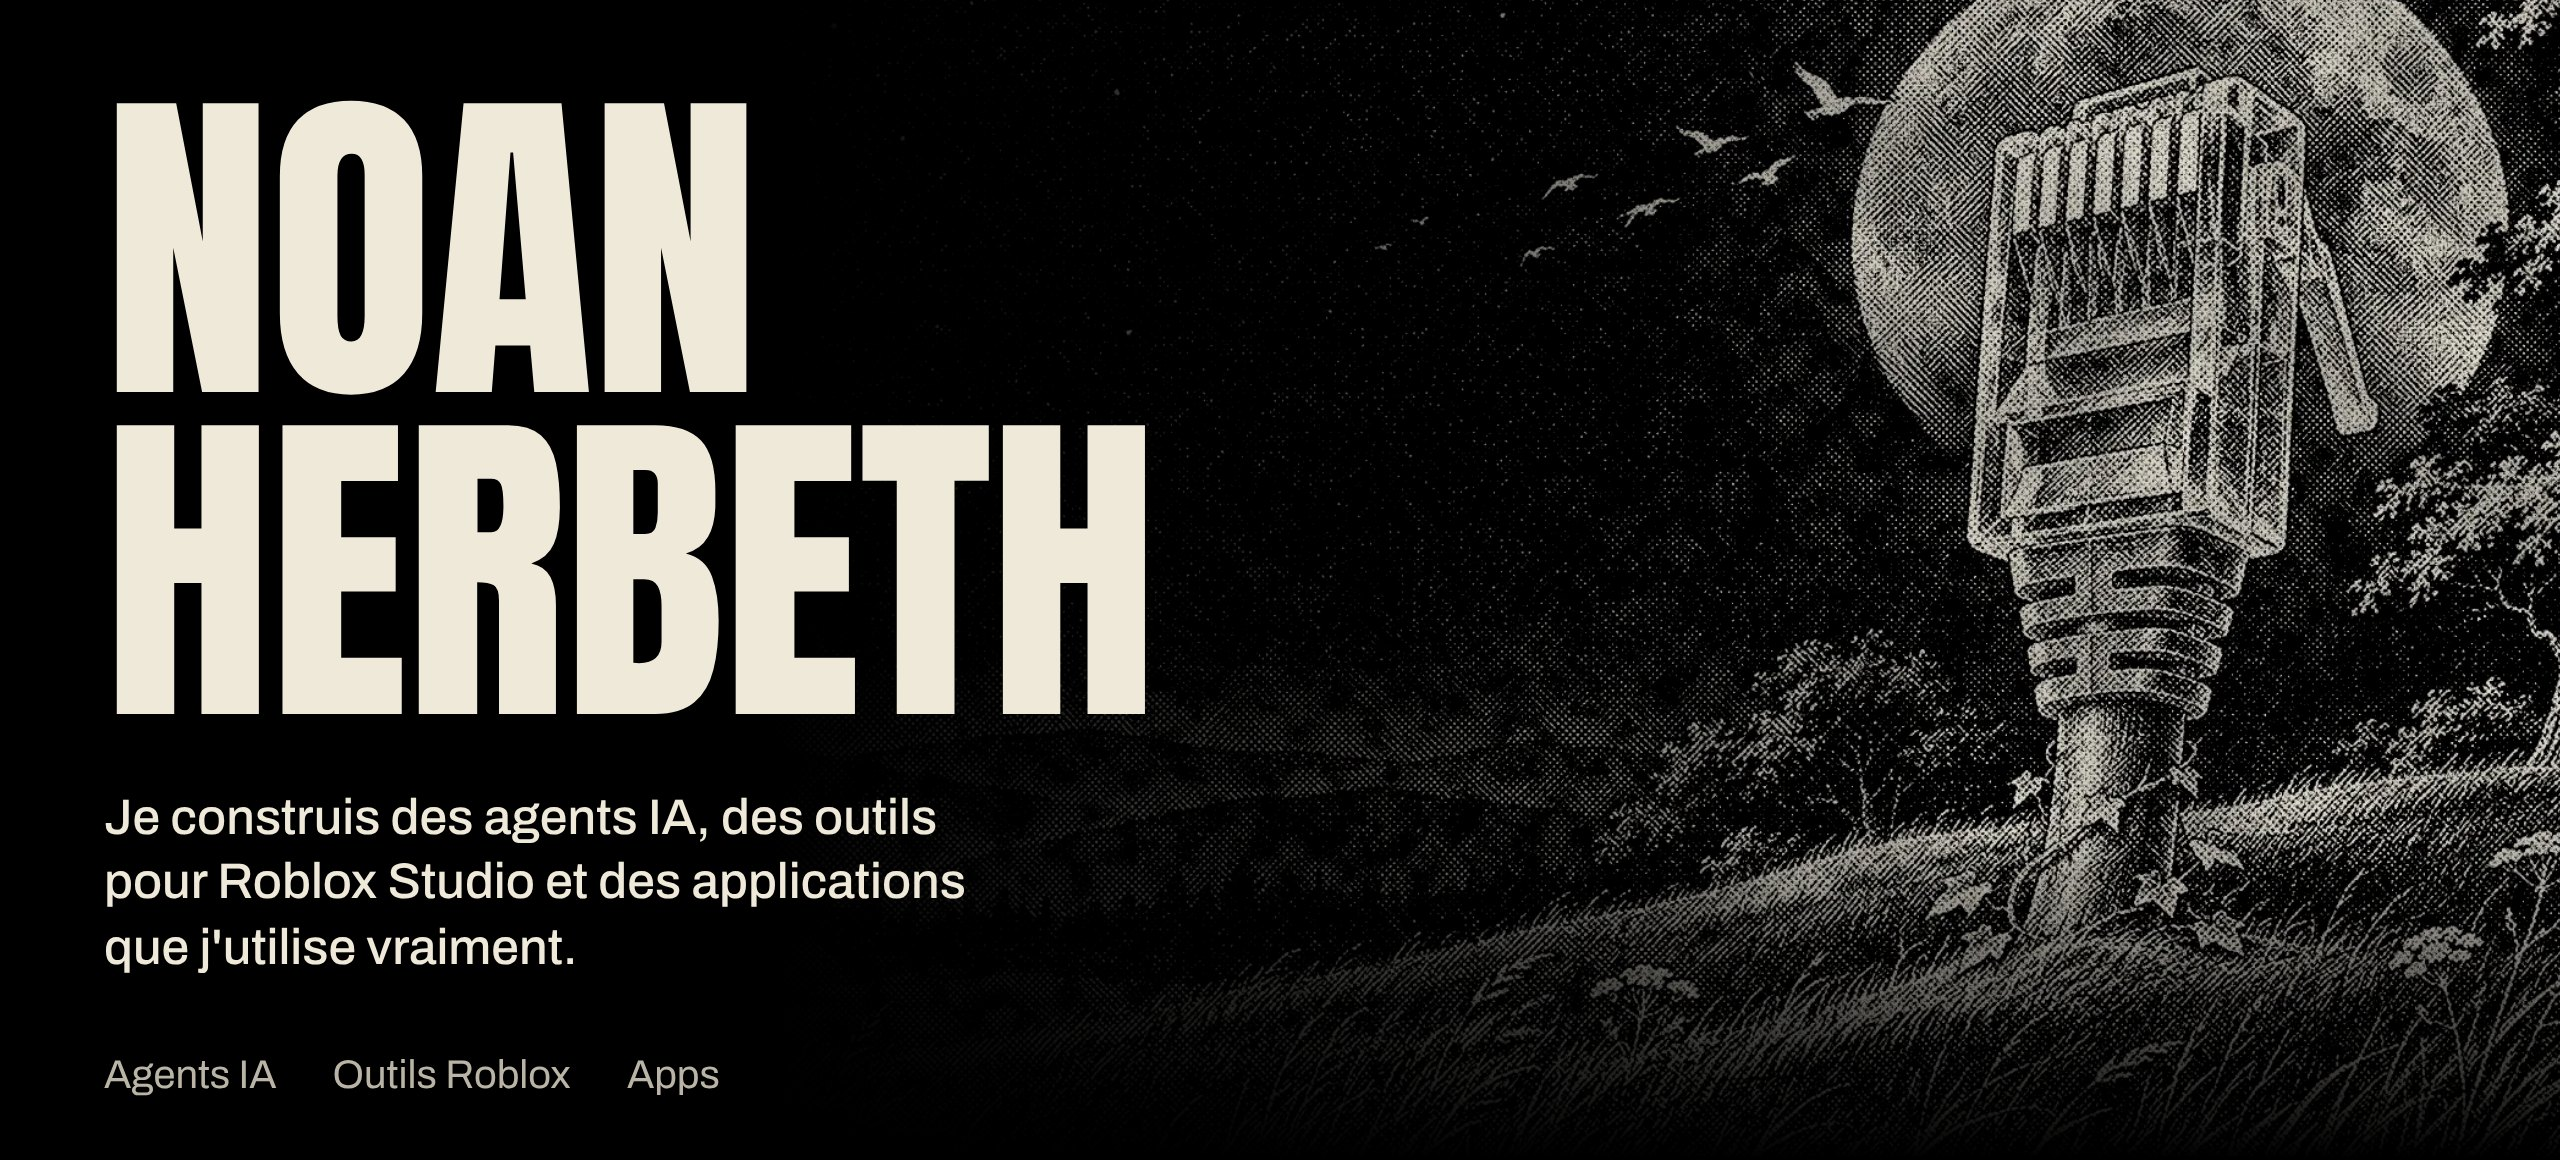
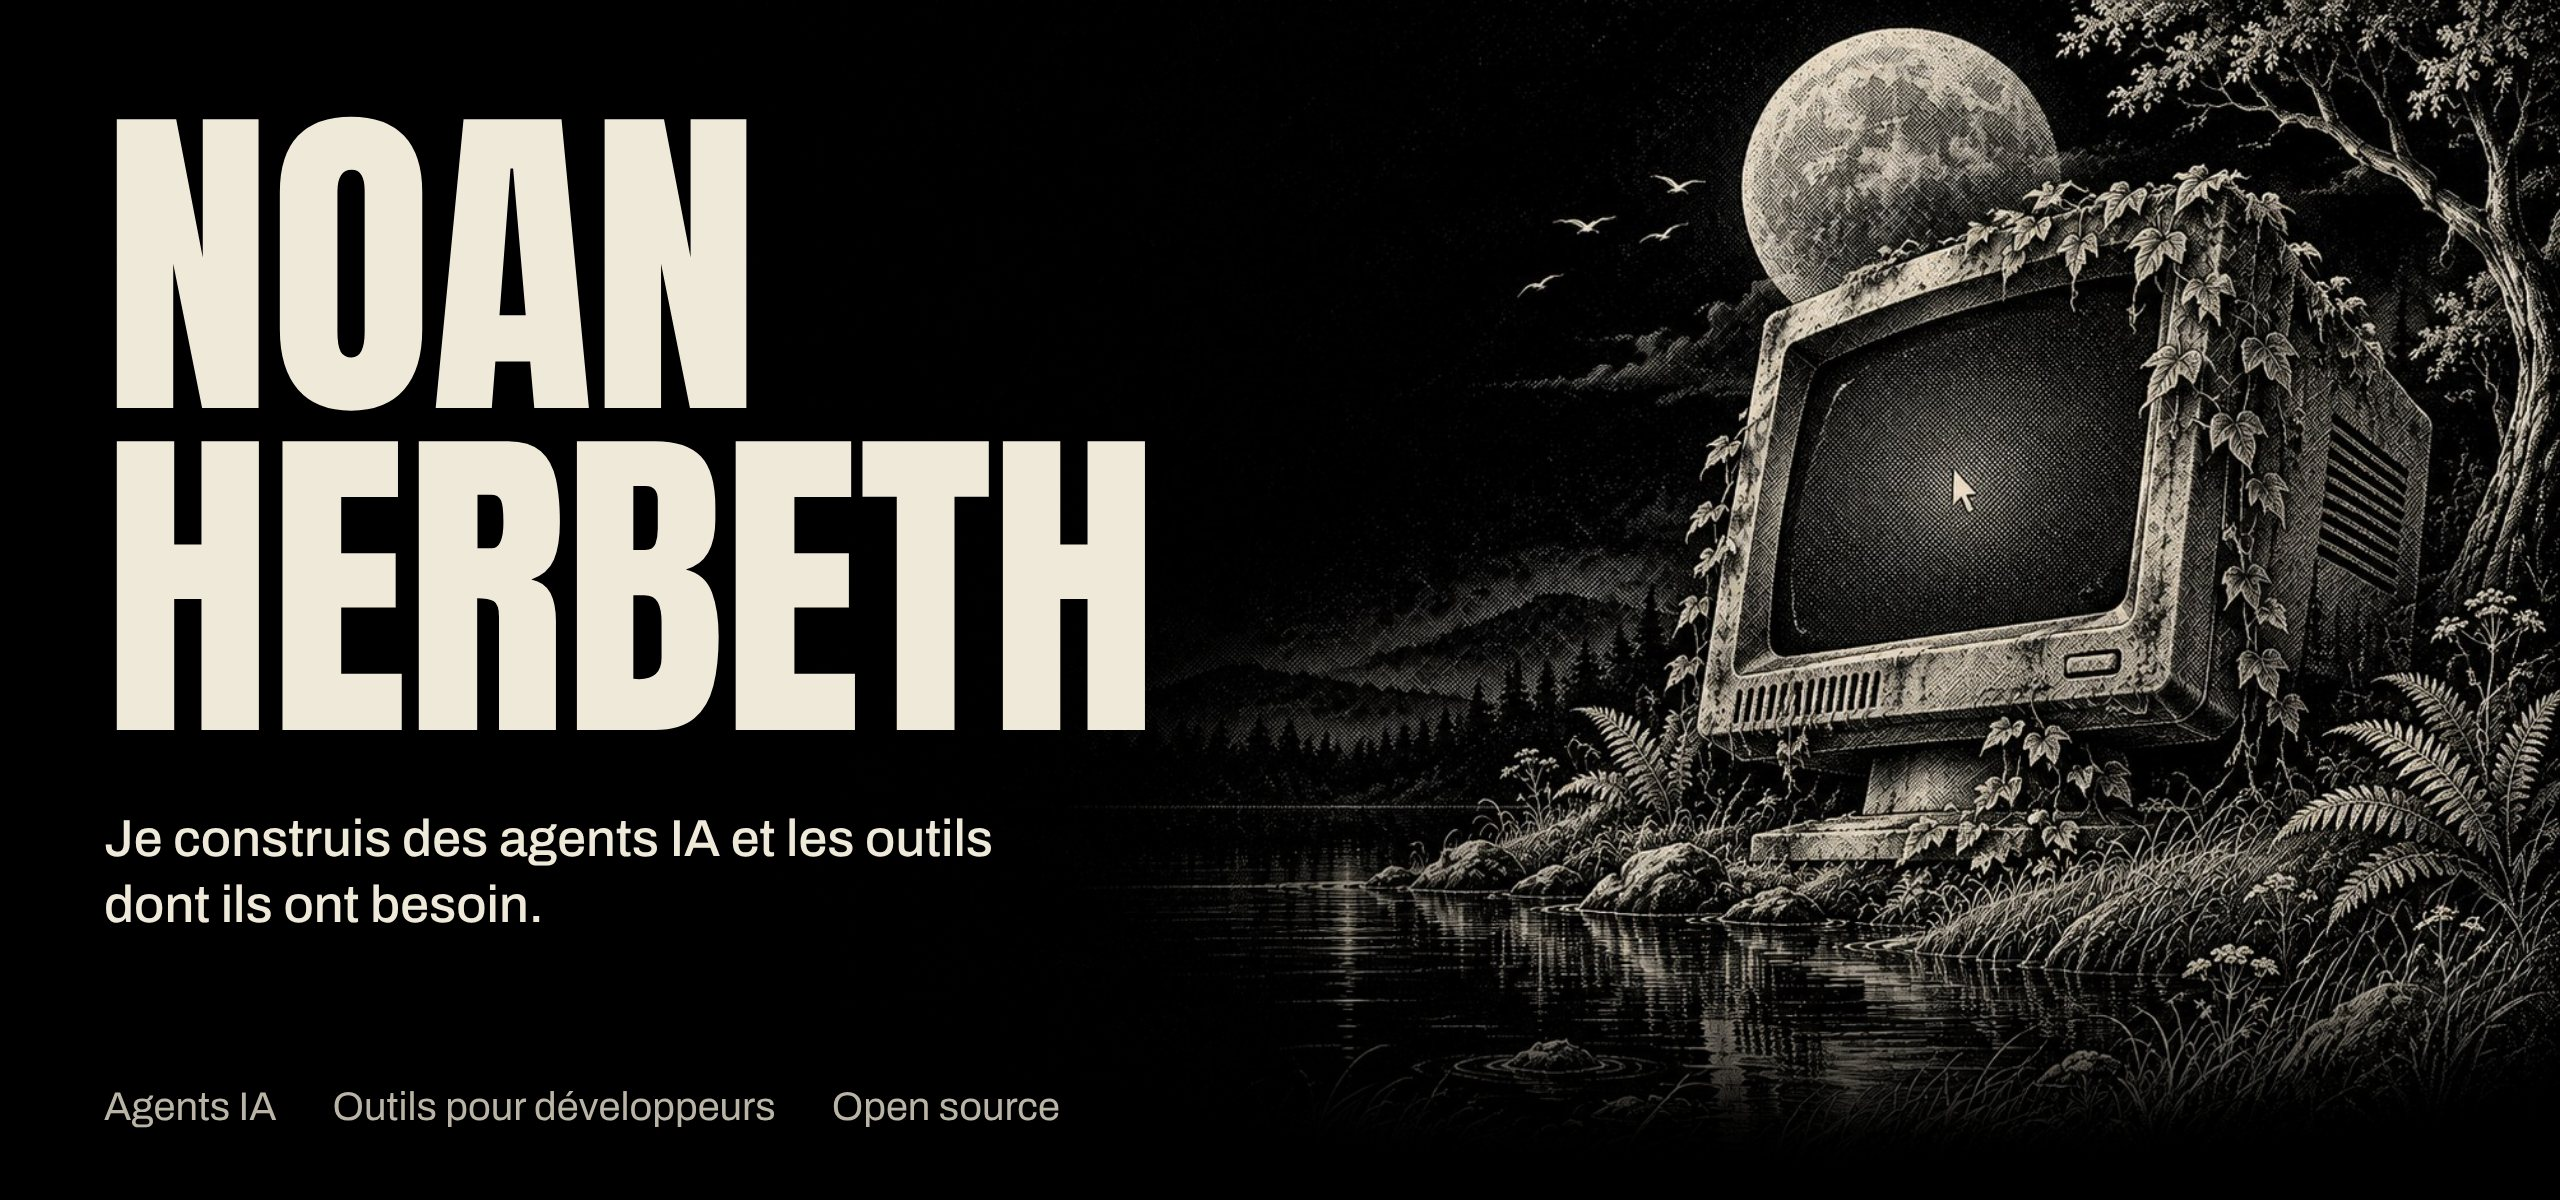
Profil : illustrations générées et quatre projets publics (#3)
Bandeau et cartes illustrés dans le style gravure (encre crème sur
noir), générés pour le profil. Le profil ne présente plus que les
dépôts publics : Orion, rbx-studio-plus, Vintify et claude-plugins.

Claude-Session: https://claude.ai/code/session_01RPY4N4fQ6ZW4kf7U7QSgxY

diff --git a/README.md b/README.md
@@ -1,28 +1,22 @@
-<img src="assets/banner.jpg" alt="Noan Herbeth. Agents IA, outils pour Roblox Studio et applications." width="100%">
+<img src="assets/banner.jpg" alt="Noan Herbeth. Je construis des agents IA et les outils dont ils ont besoin." width="100%">
 
 <img src="assets/titre-projets.png" alt="Projets" width="100%">
 
-<a href="https://github.com/noan-hbt/orion-agent"><img src="assets/projet-orion-agent.png" alt="Orion. Un agent personnel toujours actif, auto-hébergé. Python 3.12, Starlette, Playwright." width="100%"></a>
+<a href="https://github.com/noan-hbt/orion"><img src="assets/projet-orion.jpg" alt="Orion. Un agent personnel toujours actif, sur ton propre serveur. Python 3.12, Starlette, Playwright." width="100%"></a>
 
-<a href="https://github.com/noan-hbt/keewie"><img src="assets/projet-keewie.png" alt="Keewie. Studio de création Roblox local-first. Rust, Tauri 2, React 19, Rojo." width="49.5%"></a>
-<a href="https://github.com/noan-hbt/rbx-studio-plus"><img src="assets/projet-rbx-studio-plus.png" alt="rbx-studio-plus. Serveur MCP Roblox Studio pensé pour les agents de code. TypeScript, Node 20, MCP." width="49.5%"></a>
+<a href="https://github.com/noan-hbt/rbx-studio-plus"><img src="assets/projet-rbx-studio-plus.jpg" alt="rbx-studio-plus. Le serveur MCP Roblox Studio pensé pour les agents de code. TypeScript, Node 20, MCP." width="100%"></a>
 
-<a href="https://github.com/noan-hbt/bankboard"><img src="assets/projet-bankboard.png" alt="Bankboard. Cockpit financier personnel. FastAPI, Next.js 15, PostgreSQL, PWA." width="49.5%"></a>
-<a href="https://github.com/noan-hbt/sipp-app"><img src="assets/projet-sipp-app.png" alt="Sipp. Apprentissage personnalisé en micro-leçons. FastAPI, React 19, Vite, PostgreSQL." width="49.5%"></a>
+<a href="https://github.com/noan-hbt/vintify"><img src="assets/projet-vintify.jpg" alt="Vintify. Client Python typé pour l'API de Vinted, avec un bot Discord d'alertes. Python, Discord, Railway." width="100%"></a>
 
-<a href="https://github.com/noan-hbt/vintify"><img src="assets/projet-vintify.png" alt="Vintify. Client Python typé pour l'API de Vinted, avec un bot Discord d'alertes." width="49.5%"></a>
-<a href="https://github.com/noan-hbt/solana-tracker"><img src="assets/projet-solana-tracker.png" alt="Solana Tracker. Bot Discord de suivi des trades Solana. Python, Helius, PostgreSQL." width="49.5%"></a>
+<a href="https://github.com/noan-hbt/claude-plugins"><img src="assets/projet-claude-plugins.jpg" alt="claude-plugins. Mes extensions pour Claude Code : barre d'état d'usage et marketplace de plugins." width="100%"></a>
 
 <img src="assets/titre-outils.png" alt="Outils" width="100%">
 
 | | |
 |---|---|
-| **Langages** | `Python` `TypeScript` `Rust` `Luau` `SQL` |
-| **Back** | `FastAPI` `Starlette` `SQLAlchemy` `PostgreSQL` |
-| **Front** | `React` `Next.js` `Vite` `Tauri` |
-| **Agents** | `MCP` `Playwright` `Discord` |
-| **Déploiement** | `Docker` `Railway` `Linux` |
-
-<p align="right"><a href="https://github.com/noan-hbt?tab=repositories">[tous les dépôts]</a></p>
+| **Langages** | `Python` `TypeScript` `Luau` `PowerShell` |
+| **Agents** | `MCP` `Claude Code` `Playwright` |
+| **Back** | `Starlette` `httpx` `Pydantic` |
+| **Déploiement** | `Linux` `Docker` `Railway` |
 
 <img src="assets/pied.png" alt="Noan Herbeth." width="100%">
